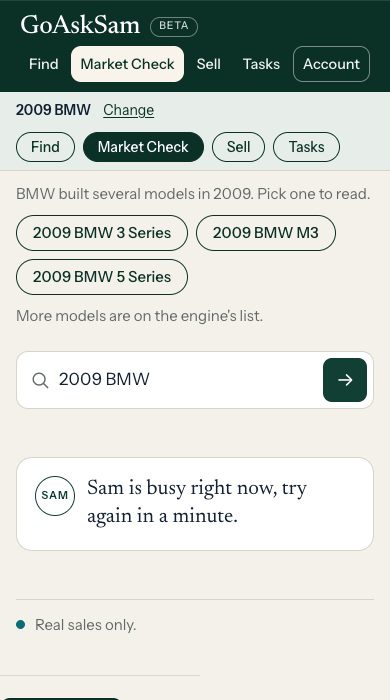
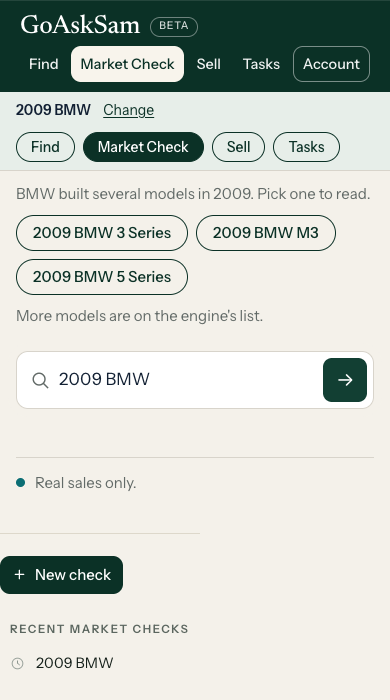
model choices: no fallback line under them (crew only rule); the sweep of replies with no answer; the cases and mutants (Lane S)

diff --git a/lib/modelChoicePage.js b/lib/modelChoicePage.js
@@ -35,8 +35,14 @@ a.gmc-btn:hover{background:var(--forest,#0B3126);color:#fff}a.gmc-btn:focus-visi
 
 export const MODEL_CHOICE_JS = `(function(){var build=(${modelChoiceFactory.toString()})(),of=window.fetch,API=/\\/api\\/(sellerDecision|buySearch|sellChat)(\\?|$)/;
 function scan(o,d){if(!o||typeof o!=="object"||d>4)return undefined;if(Object.prototype.hasOwnProperty.call(o,"modelChoice"))return o.modelChoice;for(var k in o){var r=scan(o[k],d+1);if(r!==undefined)return r}return undefined}
-function draw(mc){var old=document.getElementById("gmc");if(old)old.remove();if(!mc)return;var h=build(mc);if(!h)return;var bar=document.getElementById("gas-carbar"),hd=document.querySelector("header");
- if(bar&&bar.parentNode)bar.insertAdjacentHTML("afterend",h);else if(hd&&hd.parentNode)hd.insertAdjacentHTML("afterend",h);else if(document.body)document.body.insertAdjacentHTML("afterbegin",h)}
+// CREW ONLY RULE (Lane S, Nov 17 2026), until the engine marks a modelChoice reply as a complete reply: the shared onebox.js reads a reply that is not an answer as a failure and draws its fallback under the search box ("Sam is busy right now" on Market Check, "This one could not be read yet" and the Have Sam keep looking card on Sell).
+// While the latest reply is a modelChoice those Sam bubbles and that card are taken off the page; the next reply (a typed model) ends the hold. When Lane D serves a modelChoice as a complete reply this rule comes out.
+var held=false;
+function sweep(){if(!held)return;var root=document.getElementById("ob")||document.querySelector("main")||document.body,g=document.getElementById("gmc"),n=root.querySelectorAll(".sam,.samonit");for(var i=0;i<n.length;i++){if(!g||!g.contains(n[i]))n[i].remove()}}
+function watch(){try{new MutationObserver(sweep).observe(document.body||document.documentElement,{childList:true,subtree:true})}catch(e){}}
+if(document.body)watch();else document.addEventListener("DOMContentLoaded",watch);
+function draw(mc){var old=document.getElementById("gmc");if(old)old.remove();held=false;if(!mc)return;var h=build(mc);if(!h)return;var bar=document.getElementById("gas-carbar"),hd=document.querySelector("header");
+ if(bar&&bar.parentNode)bar.insertAdjacentHTML("afterend",h);else if(hd&&hd.parentNode)hd.insertAdjacentHTML("afterend",h);else if(document.body)document.body.insertAdjacentHTML("afterbegin",h);held=true;sweep()}
 if(of){window.fetch=function(input){var p=of.apply(this,arguments);try{var u=typeof input==="string"?input:(input&&input.url)||"";if(API.test(u))p.then(function(r){try{if(/json/.test(String(r.headers.get("content-type")||"")))r.clone().json().then(function(j){var f=scan(j,0);draw(f===undefined?null:f)},function(){})}catch(e){}},function(){})}catch(e){}return p}}})();`;
 
 // html in, html out. Crew only (a visitor's page is the same bytes), on Market Check and Sell; at the top of the body so the fetch hook is in place before the page's own script asks for the answer.
